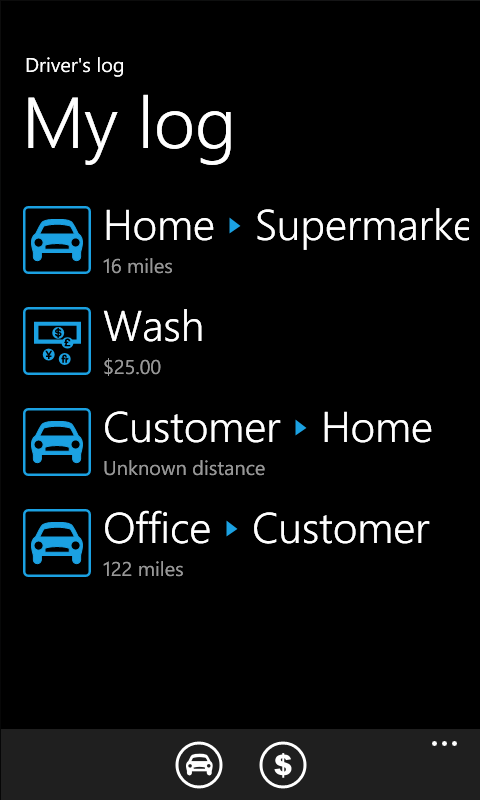
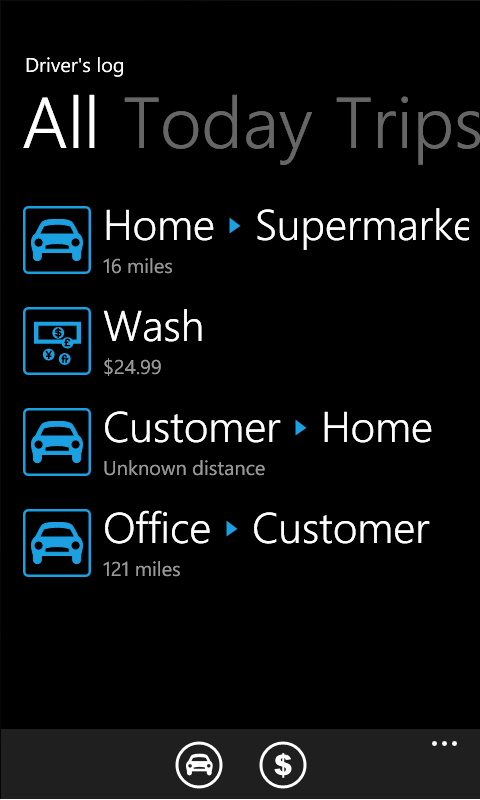
fix pivot tombstoning and include new pics for submission

diff --git a/Driverslog/MainPage.xaml b/Driverslog/MainPage.xaml
@@ -82,7 +82,7 @@
                 </StackPanel>
             </DataTemplate>
         </Grid.Resources>
-        <controls:Pivot Title="Driver's log">
+        <controls:Pivot Title="Driver's log" SelectedIndex="{Binding SelectedPivotIndex, Mode=TwoWay}">
             <controls:PivotItem Header="All">
                 <ListBox  
                      ItemsSource="{Binding Source={StaticResource AllViewSource}}"         

diff --git a/Driverslog/ViewModels/MainPageViewModel.cs b/Driverslog/ViewModels/MainPageViewModel.cs
@@ -1,5 +1,6 @@
 using System;
 using System.Collections.ObjectModel;
+using System.Diagnostics;
 using System.Windows;
 using System.Windows.Threading;
 using Caliburn.Micro;
@@ -9,6 +10,7 @@ using Driverslog.Services;
 using Microsoft.Phone.Tasks;
 
 namespace Driverslog.ViewModels {
+    [SurviveTombstone]
     public class MainPageViewModel : Screen {
         private readonly INavigationService _navigationService;
         private readonly IMessageBoxService _messageBoxService;
@@ -24,6 +26,12 @@ namespace Driverslog.ViewModels {
                 Trip.Load();
                 Expense.Load();
             });
+          
+        }
+
+        protected override void OnViewLoaded(object view) {
+            base.OnViewLoaded(view);
+            NotifyOfPropertyChange(() => SelectedPivotIndex);
         }
 
         public ObservableCollection<Trip> TripList {
@@ -38,7 +46,11 @@ namespace Driverslog.ViewModels {
 
         public int SelectedIndex { get; set; }
 
+        [SurviveTombstone]
+        public int SelectedPivotIndex { get; set; }
+
         public void CreateNewTrip() {
+
             _navigationService.Navigate(new Uri("/CreateView.xaml", UriKind.Relative));
         }
 
@@ -51,7 +63,7 @@ namespace Driverslog.ViewModels {
             var task = new EmailComposeTask() {
                 Subject = "My driver's log",
                 To = Setting.Current.Email,
-                Body = string.Format(bodyTemplate, EmailHelper.Format(Trip.All),EmailHelper.Format(Expense.All))
+                Body = string.Format(bodyTemplate, EmailHelper.Format(Trip.All), EmailHelper.Format(Expense.All))
             };
             task.Show();
         }
